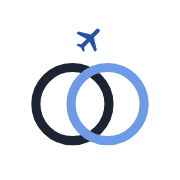
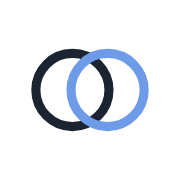
Ícone sem o avião
Claude-Session: https://claude.ai/code/session_01NX5S71Kf4iqq7ibVQkZmZT

Changed region(s): [[0.1667, 0.1389, 0.8333, 0.8333]]

diff --git a/index.html b/index.html
@@ -9,9 +9,9 @@
 <meta name="mobile-web-app-capable" content="yes">
 <meta name="apple-mobile-web-app-status-bar-style" content="default">
 <meta name="apple-mobile-web-app-title" content="Viagens a Dois">
-<link rel="apple-touch-icon" href="icon-180.png?v=3">
-<link rel="icon" type="image/png" href="icon-192.png?v=3">
-<link rel="manifest" href="manifest.webmanifest?v=3">
+<link rel="apple-touch-icon" href="icon-180.png?v=4">
+<link rel="icon" type="image/png" href="icon-192.png?v=4">
+<link rel="manifest" href="manifest.webmanifest?v=4">
 <link rel="preconnect" href="https://fonts.googleapis.com">
 <link rel="stylesheet" href="https://fonts.googleapis.com/css2?family=Manrope:wght@400;500;600;700;800&display=swap">
 <style>
